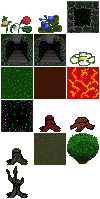
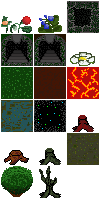
Add morass0

Changed region(s): [[0.0, 0.4824, 0.99, 0.995], [0.0, 0.7236, 0.33, 0.995]]

diff --git a/server/worldGenerator/customLocations.js b/server/worldGenerator/customLocations.js
@@ -66,7 +66,8 @@ export class Swamp extends randomLocation.RandomLocation {
   setUp () {
     this.background = 'swamp0';
 
-    this.elements.swamp0 = 900;
+    this.elements.swamp0 = 700;
+    this.elements.morass0 = 200
     this.elements.flower0 = 1;
     this.elements.berry1 = 24;
     this.elements.stump2 = 25;

diff --git a/server/mapObjectsConf.js b/server/mapObjectsConf.js
@@ -18,6 +18,7 @@ module.exports = {
     "halfBlock": [
       {"name": "water0"}
       ,{"name": "lava0"}
+      ,{"name": "morass0"}
     ],
     "block": [
       {"name": "rock0"}
